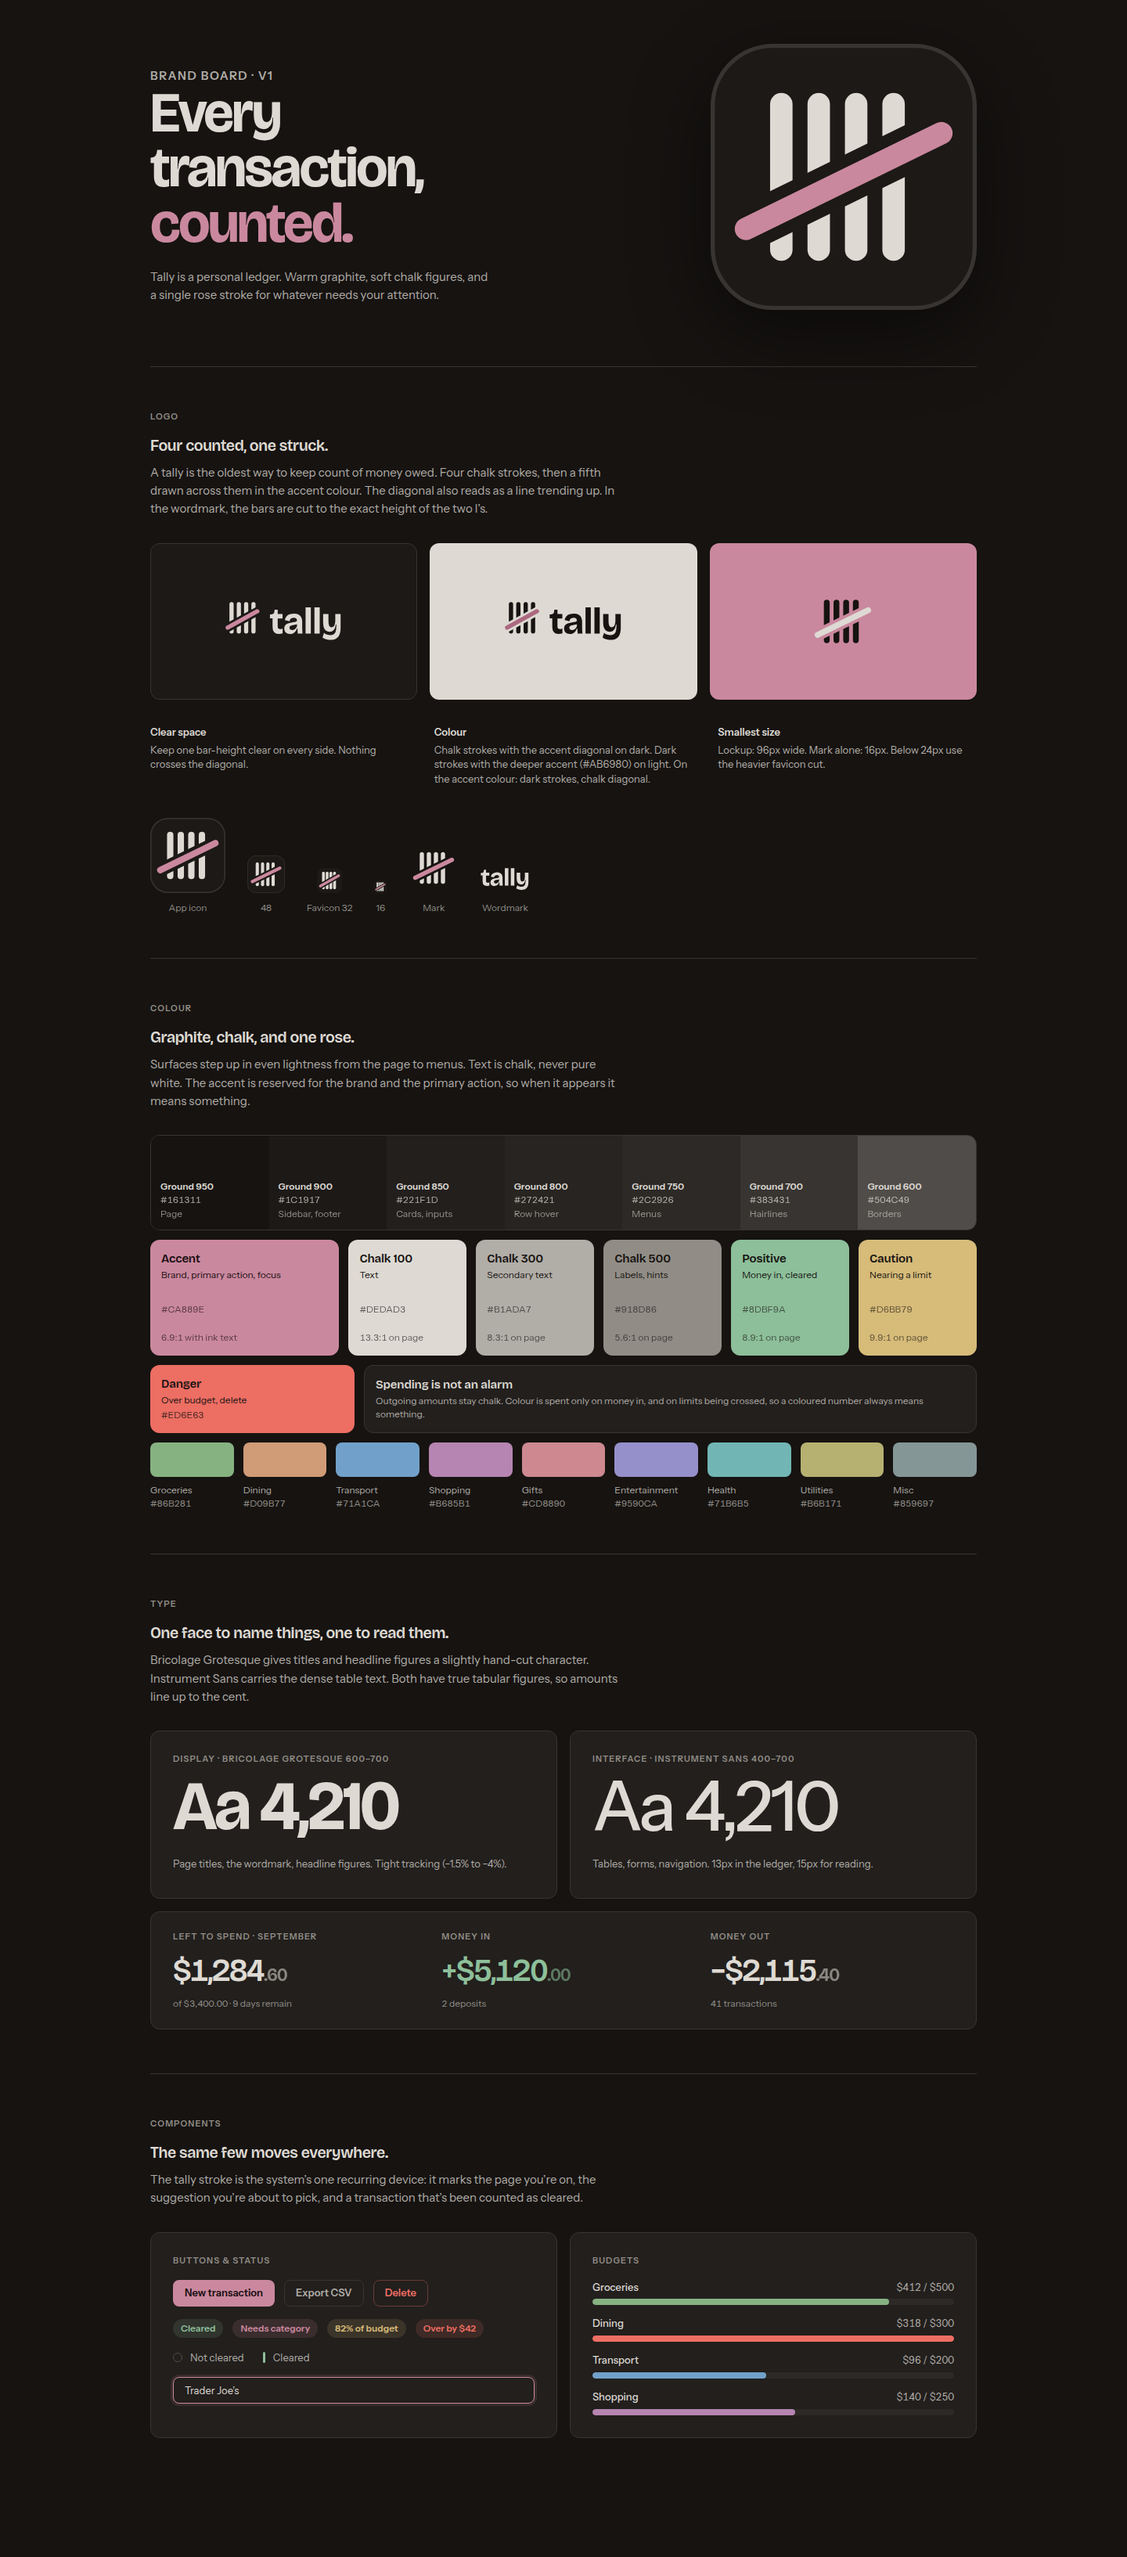
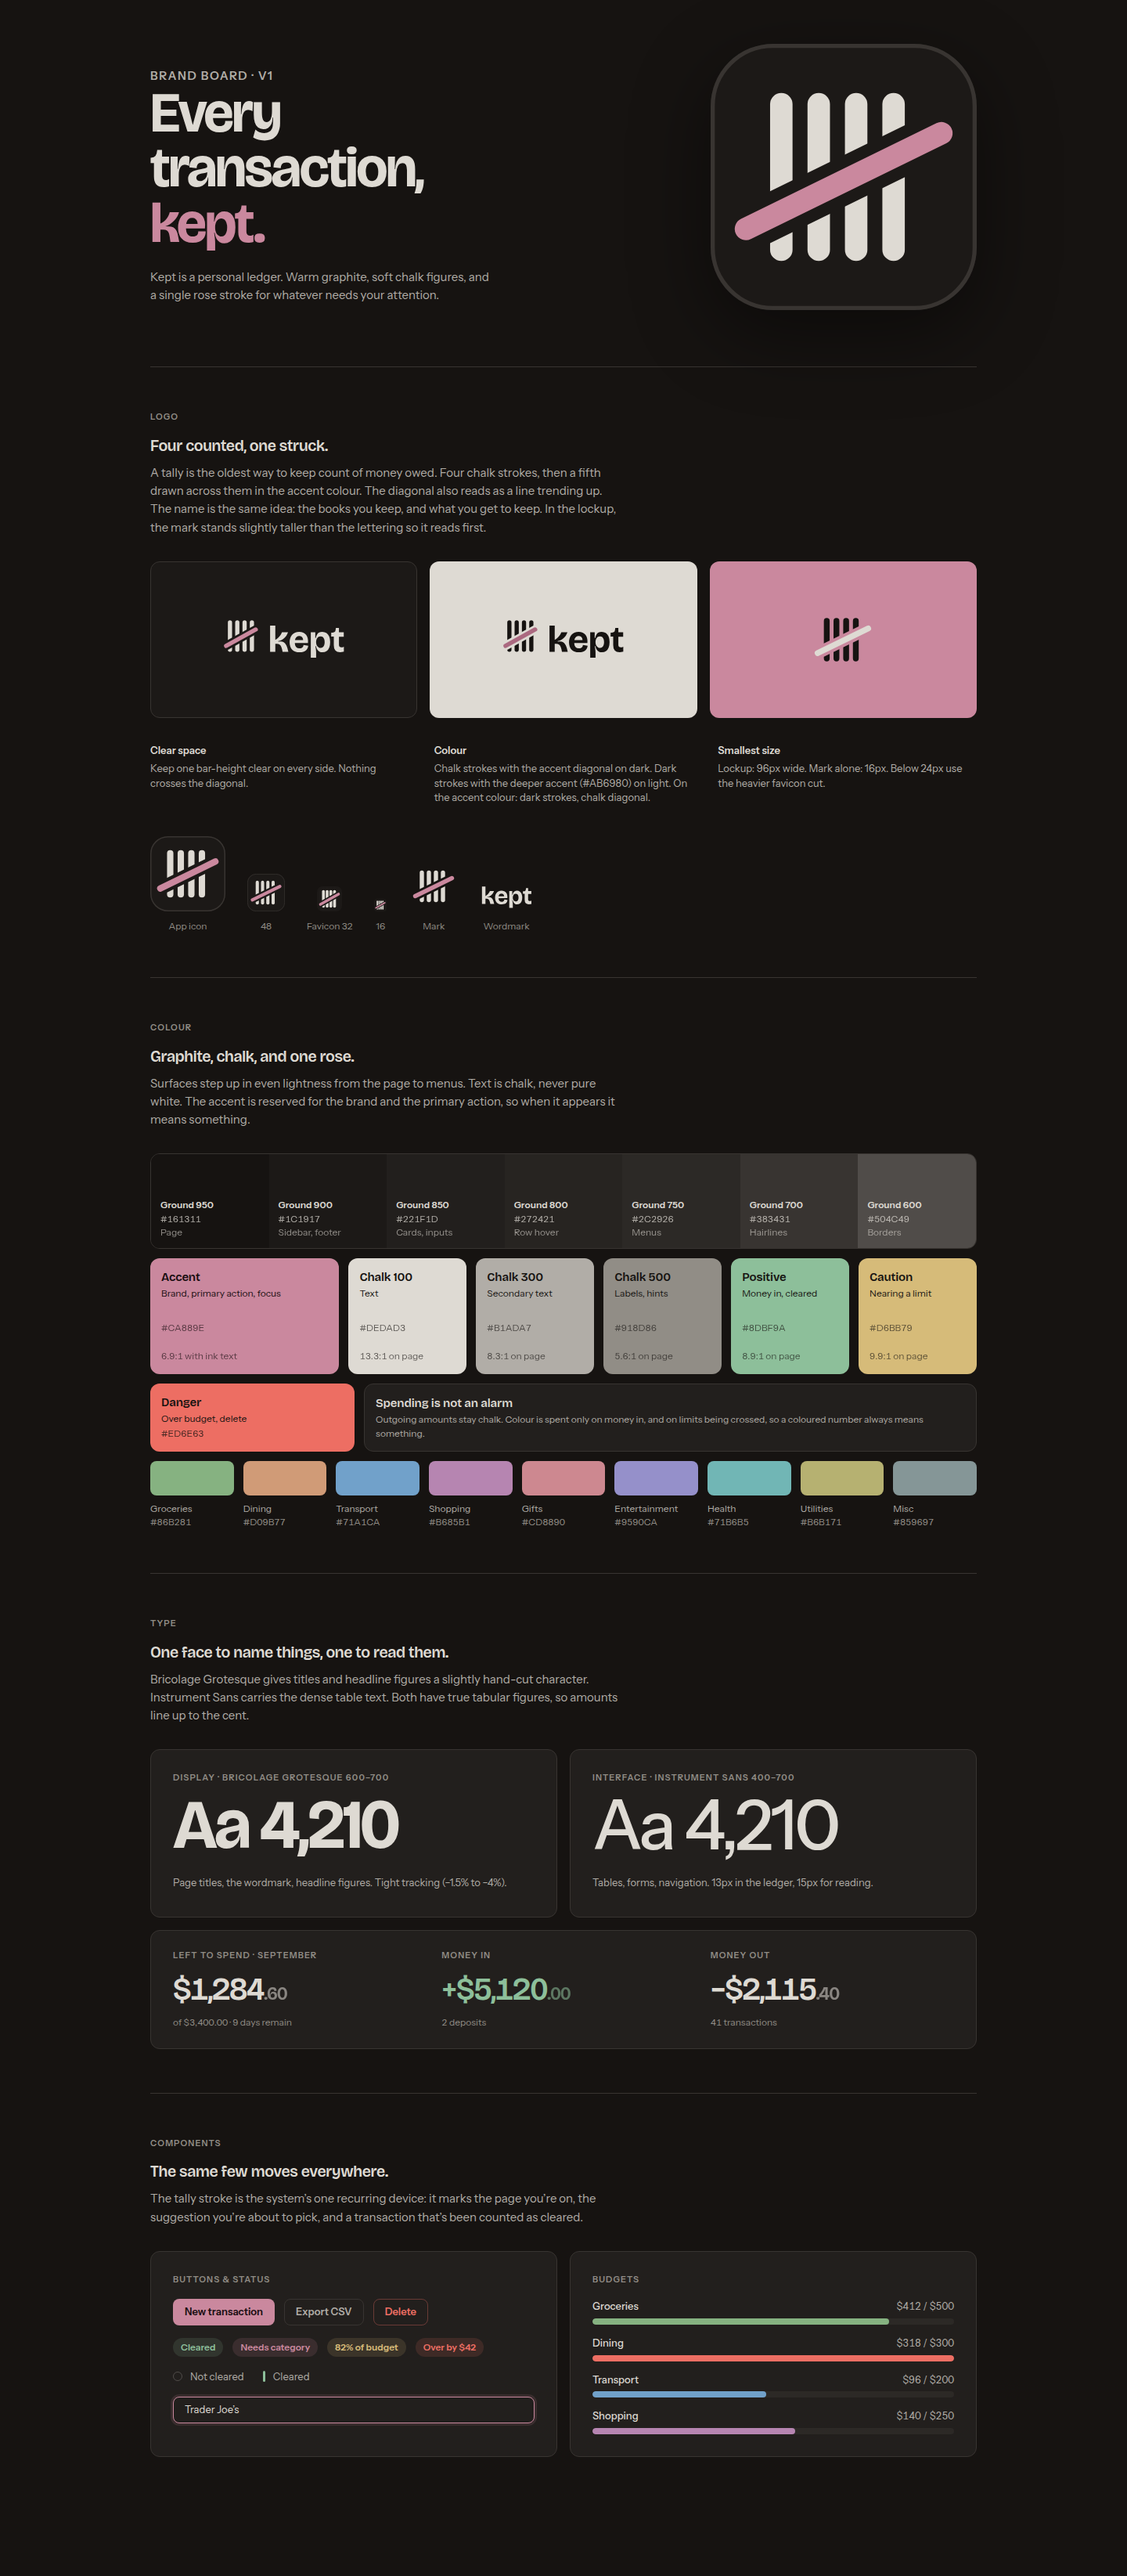
Rename product from Tally to Kept; make renaming one command
- scripts/set-wordmark.py outlines any name into brand/src/wordmark.json
  (+ brand/brand.json); sync-brand.mjs reads the name for aria-labels
- Logo files now have name-independent filenames (logo.svg, mark.svg, icon.svg, ...)
  and stale generated SVGs are pruned
- Update page titles, alt text, brand-board copy and docs; fix brand-board
  claim about bar height vs. lettering that no longer matched the lockup
- Regenerate logos and PNGs

Claude-Session: https://claude.ai/code/session_01QeMCNkGiVxP5V43JLK8QcR

diff --git a/preview/brand.html b/preview/brand.html
@@ -3,7 +3,7 @@
 <head>
 <meta charset="utf-8">
 <meta name="viewport" content="width=device-width, initial-scale=1">
-<title>Tally brand board</title>
+<title>Kept brand board</title>
 <link rel="icon" href="../brand/favicon.svg" type="image/svg+xml">
 <link rel="stylesheet" href="../theme/tokens.css">
 <link rel="stylesheet" href="app.css">
@@ -96,20 +96,20 @@
   <section class="hero">
     <div>
       <p class="eyebrow">Brand board · v1</p>
-      <h1>Every transaction,<br><em>counted.</em></h1>
-      <p>Tally is a personal ledger. Warm graphite, soft chalk figures, and a single rose stroke for whatever needs your attention.</p>
+      <h1>Every transaction,<br><em>kept.</em></h1>
+      <p>Kept is a personal ledger. Warm graphite, soft chalk figures, and a single rose stroke for whatever needs your attention.</p>
     </div>
-    <img class="tile" src="../brand/tally-icon.svg" alt="Tally app icon">
+    <img class="tile" src="../brand/icon.svg" alt="Kept app icon">
   </section>
 
   <section>
     <p class="eyebrow">Logo</p>
     <h2>Four counted, one struck.</h2>
-    <p class="lede">A tally is the oldest way to keep count of money owed. Four chalk strokes, then a fifth drawn across them in the accent colour. The diagonal also reads as a line trending up. In the wordmark, the bars are cut to the exact height of the two l’s.</p>
+    <p class="lede">A tally is the oldest way to keep count of money owed. Four chalk strokes, then a fifth drawn across them in the accent colour. The diagonal also reads as a line trending up. The name is the same idea: the books you keep, and what you get to keep. In the lockup, the mark stands slightly taller than the lettering so it reads first.</p>
     <div class="plates">
-      <div class="plate on-ground"><img src="../brand/tally-logo.svg" alt="Tally logo on ground"></div>
-      <div class="plate on-chalk"><img src="../brand/tally-logo-on-light.svg" alt="Tally logo on chalk"></div>
-      <div class="plate on-accent"><img src="../brand/tally-mark-on-accent.svg" style="height:88px" alt="Tally mark on accent"></div>
+      <div class="plate on-ground"><img src="../brand/logo.svg" alt="Kept logo on ground"></div>
+      <div class="plate on-chalk"><img src="../brand/logo-on-light.svg" alt="Kept logo on chalk"></div>
+      <div class="plate on-accent"><img src="../brand/mark-on-accent.svg" style="height:88px" alt="Kept mark on accent"></div>
     </div>
     <div class="rules">
       <div><b>Clear space</b>Keep one bar-height clear on every side. Nothing crosses the diagonal.</div>
@@ -117,12 +117,12 @@
       <div><b>Smallest size</b>Lockup: 96px wide. Mark alone: 16px. Below 24px use the heavier favicon cut.</div>
     </div>
     <div class="sizes" style="margin-top:40px">
-      <figure><img src="../brand/tally-icon.svg" width="96" alt=""><span>App icon</span></figure>
-      <figure><img src="../brand/tally-icon.svg" width="48" alt=""><span>48</span></figure>
+      <figure><img src="../brand/icon.svg" width="96" alt=""><span>App icon</span></figure>
+      <figure><img src="../brand/icon.svg" width="48" alt=""><span>48</span></figure>
       <figure><img src="../brand/favicon.svg" width="32" alt=""><span>Favicon 32</span></figure>
       <figure><img src="../brand/favicon.svg" width="16" alt=""><span>16</span></figure>
-      <figure><img src="../brand/tally-mark.svg" width="64" alt=""><span>Mark</span></figure>
-      <figure><img src="../brand/tally-wordmark.svg" height="34" alt=""><span>Wordmark</span></figure>
+      <figure><img src="../brand/mark.svg" width="64" alt=""><span>Mark</span></figure>
+      <figure><img src="../brand/wordmark.svg" height="34" alt=""><span>Wordmark</span></figure>
     </div>
   </section>
 

diff --git a/preview/transactions.html b/preview/transactions.html
@@ -3,7 +3,7 @@
 <head>
 <meta charset="utf-8">
 <meta name="viewport" content="width=device-width, initial-scale=1">
-<title>Transactions · Tally</title>
+<title>Transactions · Kept</title>
 <link rel="icon" href="../brand/favicon.svg" type="image/svg+xml">
 <link rel="stylesheet" href="../theme/tokens.css">
 <link rel="stylesheet" href="app.css">
@@ -34,7 +34,7 @@
 <div class="app">
   <aside class="sidebar">
     <div class="brand">
-      <img src="../brand/tally-logo.svg" alt="Tally">
+      <img src="../brand/logo.svg" alt="Kept">
       <button class="icon-btn" aria-label="Collapse sidebar"><svg width="18" height="18"><use href="#i-panel"/></svg></button>
     </div>
     <nav class="nav" aria-label="Main">

diff --git a/theme/tokens.css b/theme/tokens.css
@@ -1,5 +1,5 @@
 /* ==========================================================================
-   TALLY — design tokens
+   KEPT — design tokens
    Warm graphite, soft chalk text, one dusty-rose accent.
    THIS FILE IS THE ONLY PLACE COLOURS ARE DEFINED. Components read the semantic
    aliases below; after editing, run `node scripts/sync-brand.mjs`.

diff --git a/scripts/set-wordmark.py b/scripts/set-wordmark.py
@@ -1,0 +1,54 @@
+#!/usr/bin/env python3
+"""Outline a product name in Bricolage Grotesque 700 and store it for the logo generator.
+
+    python3 scripts/set-wordmark.py "Kept"          # updates brand/src/wordmark.json + brand/brand.json
+    python3 scripts/set-wordmark.py "Kept" --out /tmp/wm.json   # write elsewhere (no changes to the repo)
+
+Then run `node scripts/sync-brand.mjs` to regenerate every logo file.
+Needs: pip install fonttools brotli
+"""
+import json, os, sys
+from fontTools.ttLib import TTFont
+from fontTools.varLib import instancer
+from fontTools.pens.svgPathPen import SVGPathPen
+from fontTools.pens.transformPen import TransformPen
+from fontTools.pens.boundsPen import BoundsPen
+
+ROOT = os.path.join(os.path.dirname(os.path.abspath(__file__)), "..")
+FONT = os.path.join(ROOT, "preview/fonts/bricolage-grotesque.woff2")
+SIZE, TRACK = 44, -0.018  # px, em
+
+def outline(text):
+    f = instancer.instantiateVariableFont(TTFont(FONT), {"wght": 700, "opsz": 40})
+    gs, cmap, upm = f.getGlyphSet(), f.getBestCmap(), f["head"].unitsPerEm
+    missing = [c for c in text if ord(c) not in cmap]
+    if missing:
+        sys.exit(f"The font has no glyph for: {''.join(missing)}")
+    sc, x, d = SIZE / upm, 0.0, ""
+    for ch in text:
+        g = cmap[ord(ch)]
+        pen = SVGPathPen(gs, ntos=lambda v: ("%.2f" % v).rstrip("0").rstrip("."))
+        gs[g].draw(TransformPen(pen, (sc, 0, 0, -sc, x, 0)))
+        d += pen.getCommands()
+        x += gs[g].width * sc + TRACK * SIZE
+    asc = max((lambda b: b.bounds[3] if b.bounds else 0)(_b(gs, cmap, c)) for c in text) / upm
+    return d, round(x - TRACK * SIZE, 1), round(asc, 3)
+
+def _b(gs, cmap, ch):
+    bp = BoundsPen(gs); gs[cmap[ord(ch)]].draw(bp); return bp
+
+if __name__ == "__main__":
+    args = [a for a in sys.argv[1:] if not a.startswith("--")]
+    if not args:
+        sys.exit(__doc__)
+    name = args[0]
+    word = name.lower()  # the wordmark is set in lowercase
+    d, w, asc = outline(word)
+    data = {"font": f"Bricolage Grotesque 700, opsz 40, tracking {TRACK}em, outlined at size {SIZE}",
+            "text": word, "size": SIZE, "width": w, "d": d}
+    out = sys.argv[sys.argv.index("--out") + 1] if "--out" in sys.argv else os.path.join(ROOT, "brand/src/wordmark.json")
+    json.dump(data, open(out, "w"))
+    if "--out" not in sys.argv:
+        json.dump({"name": name}, open(os.path.join(ROOT, "brand/brand.json"), "w"), indent=2)
+        open(os.path.join(ROOT, "brand/brand.json"), "a").write("\n")
+    print(f"{name}: wordmark {w}px wide, tallest letter {asc}em -> {out}")

diff --git a/THEME.md b/THEME.md
@@ -1,11 +1,11 @@
-# Tally: theme and logo
+# Kept: theme and logo
 
 Direction: **warm graphite, soft chalk figures, one dusty-rose accent.**
 The logo is a tally mark: four counted strokes, one struck across.
 
 > **Heads-up:** this repo had no app code when I built this, so the kit is a drop-in plus a faithful
 > recreation of the Transactions screen. Once the app source is in the repo, apply it with the steps below.
-> "Tally" is a working name. See `CLAUDE.md` for how to rename.
+> "Kept" is a working name; renaming is one command (see `CLAUDE.md`).
 
 ## Change the theme by asking Claude Code
 
@@ -74,5 +74,5 @@ Rules that keep it feeling designed:
 3. **Colours.** Replace hard-coded colours with the semantic tokens. A good first prompt for Claude Code:
    *"Replace every hard-coded colour in the app with the tokens in theme/tokens.css, following CLAUDE.md."*
    With Tailwind v4, expose them in `@theme`, e.g. `--color-surface: var(--surface);`.
-4. **Logo and icons.** `brand/tally-logo.svg` in the sidebar header (36px tall); `brand/favicon.svg` → `app/icon.svg`; `brand/png/apple-touch-icon.png` → `app/apple-icon.png`; `icon-192.png` / `icon-512.png` for a manifest.
+4. **Logo and icons.** `brand/logo.svg` in the sidebar header (36px tall); `brand/favicon.svg` → `app/icon.svg`; `brand/png/apple-touch-icon.png` → `app/apple-icon.png`; `icon-192.png` / `icon-512.png` for a manifest.
 5. **Cleared column.** Tally stroke (`.tick`) when cleared, open ring (`.ring`) when not. See `preview/app.css`.

diff --git a/CLAUDE.md b/CLAUDE.md
@@ -1,4 +1,4 @@
-# Tally: working notes for Claude Code
+# Kept: working notes for Claude Code
 
 ## Theming: how to change how the app looks
 
@@ -34,7 +34,16 @@ Then look at the result: open `preview/transactions.html` and `preview/brand.htm
 ### Logo
 
 `brand/*.svg` are generated. Don't edit them by hand; edit `scripts/sync-brand.mjs` (geometry) or `theme/tokens.css` (colour) and re-run. The wordmark outline is stored in `brand/src/wordmark.json`.
-To rename the product, replace the outline: set the text in Bricolage Grotesque 700 and convert it to a path, then update `wordmark.json` (`d`, `width`).
+To rename the product (needs `pip install fonttools brotli` once):
+
+```bash
+python3 scripts/set-wordmark.py "New Name"   # outlines the name, updates brand/src/wordmark.json and brand/brand.json
+node scripts/sync-brand.mjs                  # regenerates every logo file with the new name
+```
+
+Then search for the old name in `preview/*.html` (page titles, `alt` text, brand-board copy) and in `THEME.md`, `CLAUDE.md` and the `tokens.css` header, and update it.
+Leave "tally" alone where it means the mark itself ("tally stroke", `.tick`): that's the logo concept, not the product name.
+Logo filenames are name-independent (`logo.svg`, `mark.svg`, `icon.svg`, ...), so nothing else needs renaming.
 
 ### Copy on the brand board
 
